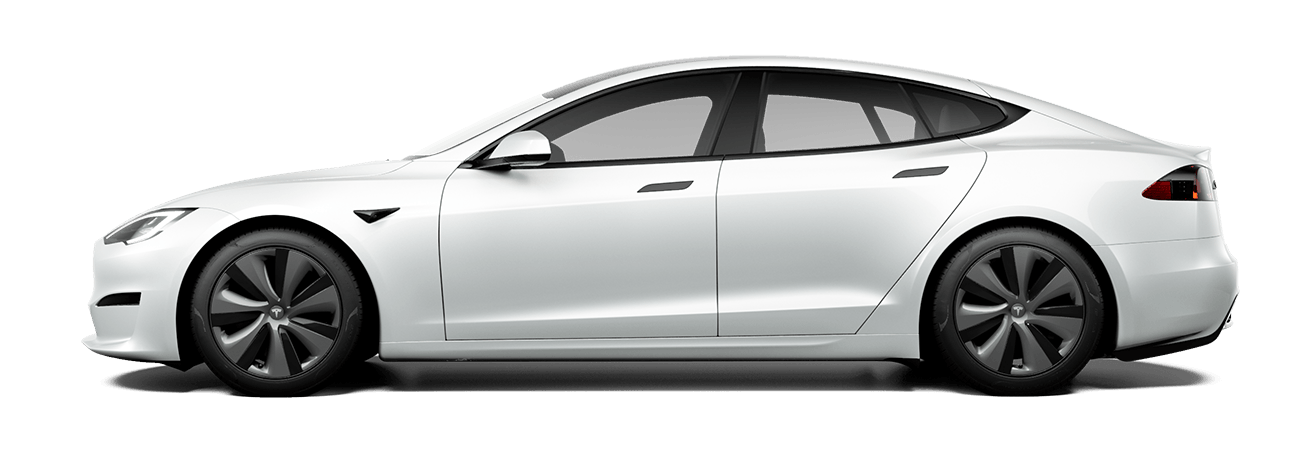
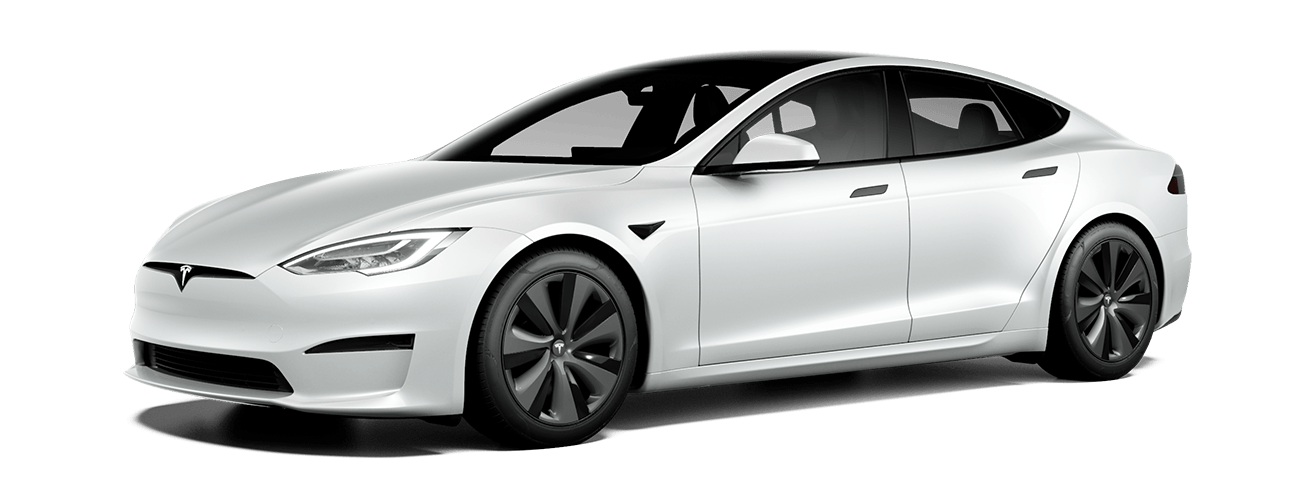
base and plaid version images are added and leftblock is created

diff --git a/src/components/modules/modelDesign_page/data.ts b/src/components/modules/modelDesign_page/data.ts
@@ -1,6 +1,18 @@
 import { CarModel } from "@/utils/compareModelDetails";
 import { modelDataTypes } from "./rightSection/header/types";
 
+// base version image(white)
+import baseHero_white_img from "@/assets/images/models-page/design/compositor (1).png";
+import basePaint_white_img from "@/assets/images/models-page/design/compositor (2).png";
+import baseWheels_white_img from "@/assets/images/models-page/design/compositor.png";
+import baseInterior_white_img from "@/assets/images/models-page/design/compositor.jpg";
+
+// plaid version image(white)
+import plaidHero_white_img from "@/assets/images/models-page/design/compositor (3).png";
+import plaidPaint_white_img from "@/assets/images/models-page/design/compositor (4).png";
+import plaidWheels_white_img from "@/assets/images/models-page/design/compositor (5).png";
+import plaidInterior_white_img from "@/assets/images/models-page/design/compositor (1).jpg";
+
 export const modelData: modelDataTypes = {
   title: CarModel.MODELS,
   baseVersion: {
@@ -25,6 +37,21 @@ export const modelData: modelDataTypes = {
       { key: "Top Speed", value: "200<span>mph</span>" },
       { key: "0-60 mph", value: "1.99<span>sec</span>" },
     ],
+  },
+
+  images: {
+    baseVersion: {
+      heroImg: baseHero_white_img,
+      paintImg: basePaint_white_img,
+      wheelsImg: baseWheels_white_img,
+      interiorImg: baseInterior_white_img,
+    },
+    plaidVersion: {
+      heroImg: plaidHero_white_img,
+      paintImg: plaidPaint_white_img,
+      wheelsImg: plaidWheels_white_img,
+      interiorImg: plaidInterior_white_img,
+    },
   },
 
   paint: [

diff --git a/src/components/modules/modelDesign_page/rightSection/header/types.ts b/src/components/modules/modelDesign_page/rightSection/header/types.ts
@@ -8,6 +8,8 @@ export interface modelVersionTypes {
   specs: { key: string; value: string }[];
 }
 
+export type capsuleBtnTypes = "purchasePrice" | "potentialSavings";
+
 export interface headerProps {
   title: CarModel;
   baseVersion: modelVersionTypes;
@@ -40,10 +42,23 @@ export interface interiorTypes {
   decor?: "Walnut Decor" | "Ebony Decor";
 }
 
+export type imageType = StaticImageData;
+
+export type carModelVersionImageType = {
+  heroImg: imageType;
+  paintImg: imageType;
+  wheelsImg: imageType;
+  interiorImg: imageType;
+};
+
+export interface modelImagesTypes {
+  baseVersion: carModelVersionImageType;
+  plaidVersion: carModelVersionImageType;
+}
+
 export interface modelDataTypes extends headerProps {
   paint: paintTypes[];
   wheels: wheelsTypes[];
   interior: interiorTypes[];
+  images: modelImagesTypes;
 }
-
-export type capsuleBtnTypes = "purchasePrice" | "potentialSavings";

diff --git a/src/components/modules/modelDesign_page/index.tsx b/src/components/modules/modelDesign_page/index.tsx
@@ -1,9 +1,9 @@
 import React, { useEffect } from "react";
-import Header from "./rightSection/header";
 import useStore from "./store";
-import { LeftSection, RightSection, Wrapper } from "./styles";
+import { Wrapper } from "./styles";
 import { modelData } from "./data";
-import RightBlock from "./rightSection";
+import RightBlock from "./rightSection/RightBlock";
+import LeftBlock from "./leftSection/LeftBlock";
 
 const CarModelDesignPage = () => {
   const addModelData = useStore(state => state.addModelData);
@@ -14,7 +14,7 @@ const CarModelDesignPage = () => {
 
   return (
     <Wrapper>
-      <LeftSection></LeftSection>
+      <LeftBlock />
       <RightBlock />
     </Wrapper>
   );

diff --git a/src/components/modules/modelDesign_page/leftSection/LeftBlock.tsx b/src/components/modules/modelDesign_page/leftSection/LeftBlock.tsx
@@ -1,0 +1,8 @@
+import React from "react";
+import { LeftSection } from "../styles";
+
+const LeftBlock = () => {
+  return <LeftSection></LeftSection>;
+};
+
+export default LeftBlock;
